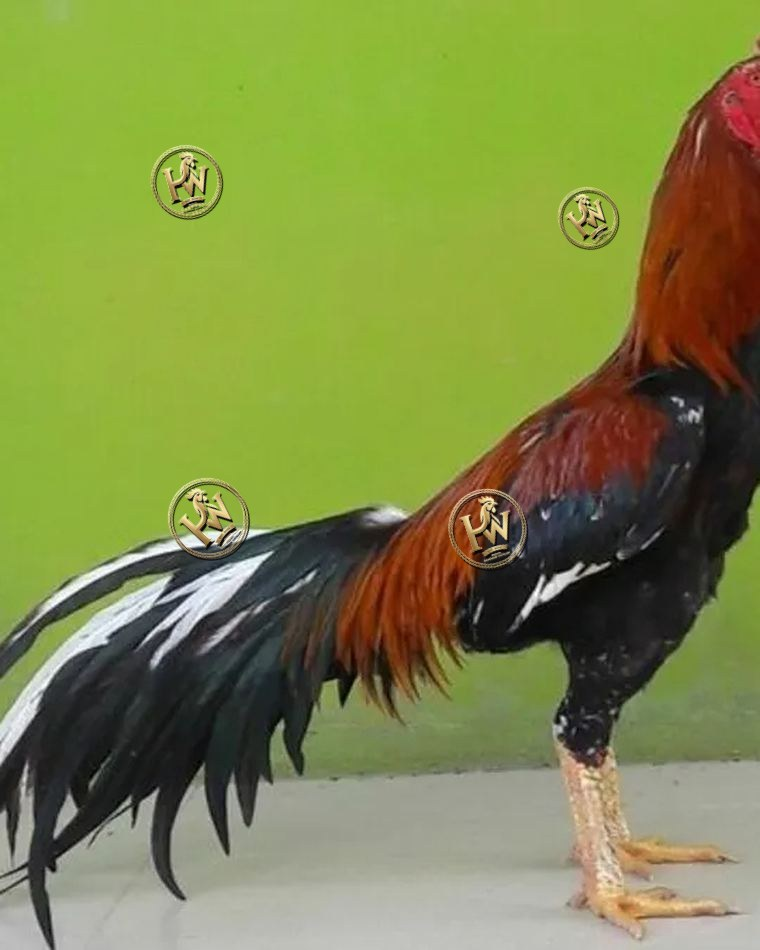
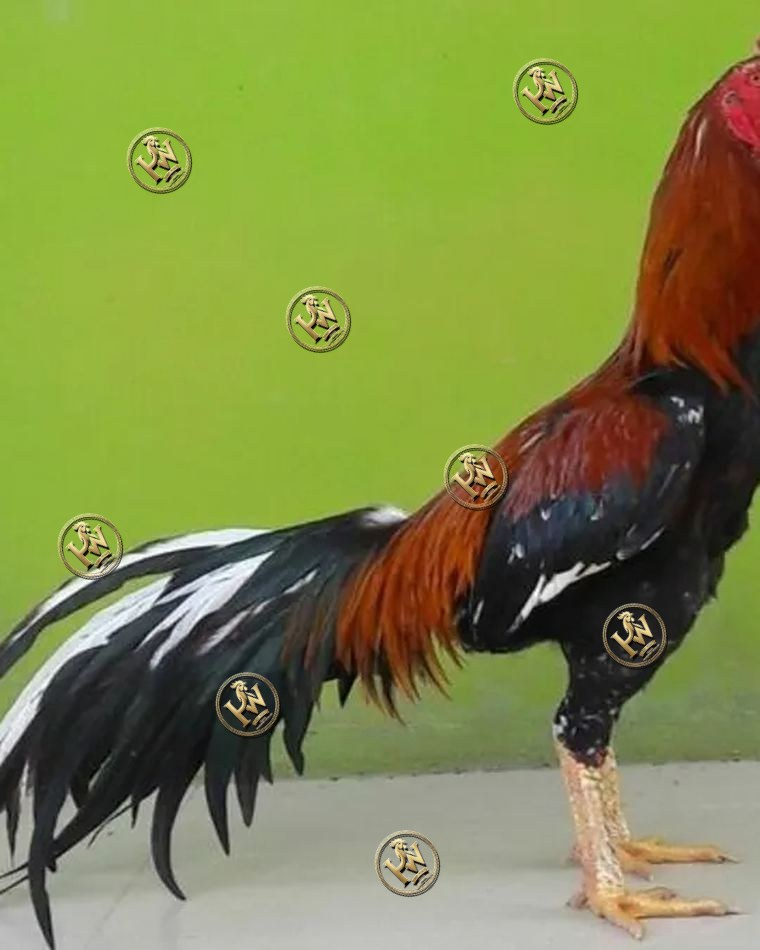
Watermark: pola diagonal teratur & opasitas diturunkan
- Posisi tidak lagi acak: logo disusun pada kisi diagonal seragam
  (semua miring -45°, berjajar mengikuti arah diagonal, bukan baris lurus).
- Opasitas logo emas 0,85 -> 0,5 dan bayangan 0,4 -> 0,2 agar tidak
  mengganggu foto; logo tetap transparan penuh tanpa kotak latar.
- 6 foto seed di-stempel ulang.

diff --git a/app/lib/watermark.ts b/app/lib/watermark.ts
@@ -13,30 +13,18 @@ function logoBuf(): Promise<Buffer> {
   return logoCache;
 }
 
-/** PRNG deterministik sederhana (mulberry32) — pola stabil per foto. */
-function prng(seed: number) {
-  let a = seed >>> 0;
-  return () => {
-    a |= 0;
-    a = (a + 0x6d2b79f5) | 0;
-    let t = Math.imul(a ^ (a >>> 15), 1 | a);
-    t = (t + Math.imul(t ^ (t >>> 7), 61 | t)) ^ t;
-    return ((t ^ (t >>> 14)) >>> 0) / 4294967296;
-  };
-}
-
-function seedDariBuffer(buf: Buffer): number {
-  let s = 0x9e3779b9;
-  const n = Math.min(buf.length, 256);
-  for (let i = 0; i < n; i++) s = (s * 31 + buf[i]) >>> 0;
-  return s;
-}
+// Parameter pola diagonal — diatur agar tidak mengganggu foto:
+const SUDUT = -45; // semua logo miring diagonal seragam
+const OP_EMAS = 0.5; // opasitas logo emas (diturunkan = makin transparan)
+const OP_BAYANG = 0.2; // opasitas bayangan halus di belakang logo
+const GAP_MAJU = 2.3; // jarak antar logo (× lebar logo) searah garis diagonal
+const GAP_BARIS = 1.6; // jarak antar baris diagonal (× lebar logo)
 
 /**
- * Menempelkan watermark LOGO secara acak-tersebar (bukan pola garis/grid).
- * Setiap logo miring diagonal dengan sudut & ukuran bervariasi, dan logo
- * tetap sepenuhnya transparan (tanpa kotak latar). Dipanggil otomatis saat
- * foto diunggah.
+ * Menempelkan watermark LOGO dalam pola diagonal teratur (bukan acak,
+ * bukan grid lurus). Logo tetap sepenuhnya transparan tanpa kotak latar,
+ * dengan opasitas rendah agar tidak mengganggu foto. Dipanggil otomatis
+ * saat foto diunggah.
  */
 export async function beriWatermark(
   buf: Buffer,
@@ -60,59 +48,63 @@ export async function beriWatermark(
   const lh0 = lm.height ?? 500;
   const rasio = lw0 / lh0;
 
-  const rand = prng(seedDariBuffer(buf));
   const minSisi = Math.min(w, h);
-  const base = Math.max(34, Math.round(minSisi * 0.13)); // tinggi dasar logo
+  const base = Math.max(34, Math.round(minSisi * 0.13)); // ukuran dasar logo
+  const lw = Math.max(24, Math.round(base * rasio));
+  const lh = Math.round(base);
 
-  // berapa logo tersebar (acak) berdasarkan luas foto
-  const cell = (2.7 * base) * (3.3 * base);
-  const num = Math.min(16, Math.max(3, Math.round((w * h) / cell)));
+  const rad = (SUDUT * Math.PI) / 180;
+  const ux = Math.cos(rad); // arah garis diagonal (sejajar kemiringan logo)
+  const uy = Math.sin(rad);
+  const ndx = -uy; // tegak lurus terhadap garis diagonal (antar baris)
+  const ndy = ux;
+
+  // Logo siap tempel: bayangan (gelap, alpha dipertahankan) & emas.
+  const baseLogo = sharp(logo).resize(lw, lh, { fit: "fill" });
+  const gelap = await baseLogo
+    .clone()
+    .recomb([
+      [0.07, 0, 0],
+      [0, 0.05, 0],
+      [0, 0, 0.04],
+    ])
+    .rotate(SUDUT, { background: { r: 0, g: 0, b: 0, alpha: 0 } })
+    .png()
+    .toBuffer();
+  const emas = await baseLogo
+    .rotate(SUDUT, { background: { r: 0, g: 0, b: 0, alpha: 0 } })
+    .png()
+    .toBuffer();
+
+  const dm = await sharp(gelap).metadata();
+  const bw = dm.width ?? lw;
+  const bh = dm.height ?? lh;
+
+  // Kisi diagonal: langkah sepanjang garis (A) & antar garis (B).
+  const A = Math.max(1, Math.round(bw * GAP_MAJU));
+  const B = Math.max(1, Math.round(bh * GAP_BARIS));
+
+  // Rentang pusat logo agar menutupi seluruh kanvas.
+  const extU = (w * Math.abs(ux) + h * Math.abs(uy)) / 2 + bw;
+  const extN = (w * Math.abs(ndx) + h * Math.abs(ndy)) / 2 + bh;
+  const aMin = Math.floor(-extU / A);
+  const aMax = Math.ceil(extU / A);
+  const bMin = Math.floor(-extN / B);
+  const bMax = Math.ceil(extN / B);
 
   const overlay: { input: Buffer; left: number; top: number; opacity: number }[] = [];
-  const placed: { x: number; y: number }[] = [];
-  const margin = Math.round(base * 0.9);
-  let guard = 0;
-
-  while (overlay.length < num && guard < 140) {
-    guard++;
-    const skala = 0.85 + rand() * 0.5; // 0.85–1.35
-    const lh = Math.round(base * skala);
-    const lw = Math.max(24, Math.round(lh * rasio));
-    const x = Math.round(margin + rand() * (w - 2 * margin - lw));
-    const y = Math.round(margin + rand() * (h - 2 * margin - lh));
-    // hindari bertumpuk terlalu dekat
-    const terlaluDekat = placed.some(
-      (p) => Math.hypot(p.x - (x + lw / 2), p.y - (y + lh / 2)) < base * 1.9
-    );
-    if (terlaluDekat) continue;
-
-    // sudut miring diagonal acak (kebanyakan antara -75° s.d. -15°)
-    const sudut = -(15 + rand() * 60);
-    const imgLogo = sharp(logo).resize(lw, lh, { fit: "fill" });
-    // bayangan: warnai ulang jadi gelap TANPA menghilangkan transparansi
-    const gelap = await imgLogo
-      .clone()
-      .recomb([
-        [0.07, 0, 0],
-        [0, 0.05, 0],
-        [0, 0, 0.04],
-      ])
-      .rotate(sudut, { background: { r: 0, g: 0, b: 0, alpha: 0 } })
-      .png()
-      .toBuffer();
-    const emas = await imgLogo
-      .rotate(sudut, { background: { r: 0, g: 0, b: 0, alpha: 0 } })
-      .png()
-      .toBuffer();
-
-    const dm = await sharp(gelap).metadata();
-    const em = await sharp(emas).metadata();
-    // pusat logo asli kira-kira di (x,y)
-    const dl = Math.round((dm.width! - lw) / 2);
-    const dt = Math.round((dm.height! - lh) / 2);
-    overlay.push({ input: gelap, left: x - dl + 2, top: y - dt + 3, opacity: 0.4 });
-    overlay.push({ input: emas, left: x - Math.round((em.width! - lw) / 2), top: y - Math.round((em.height! - lh) / 2), opacity: 0.85 });
-    placed.push({ x: x + lw / 2, y: y + lh / 2 });
+  const hw = Math.round(bw / 2);
+  const hh = Math.round(bh / 2);
+  for (let b = bMin; b <= bMax; b++) {
+    for (let a = aMin; a <= aMax; a++) {
+      const cx = Math.round(a * A * ux + b * B * ndx);
+      const cy = Math.round(a * A * uy + b * B * ndy);
+      const x0 = cx - hw;
+      const y0 = cy - hh;
+      if (x0 < 0 || y0 < 0 || x0 + bw > w || y0 + bh > h) continue;
+      overlay.push({ input: gelap, left: x0 + 2, top: y0 + 3, opacity: OP_BAYANG });
+      overlay.push({ input: emas, left: x0, top: y0, opacity: OP_EMAS });
+    }
   }
 
   if (overlay.length === 0) return buf;
